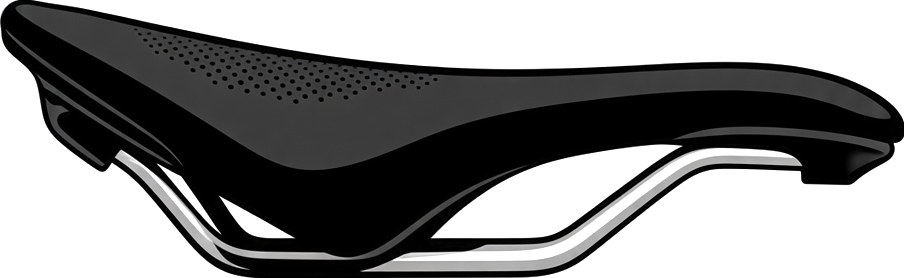
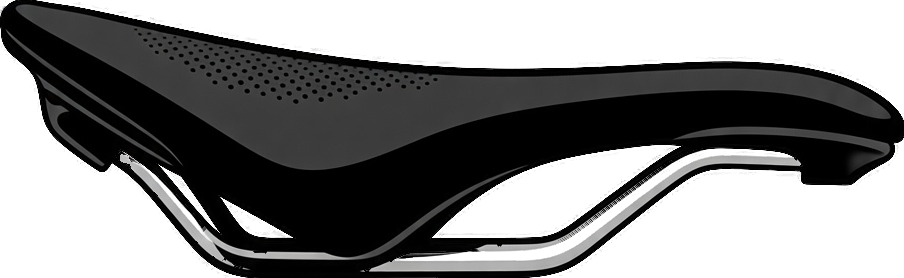
Remove the light knockout fringe from suspension artwork
Edge pixels on the wheel PNGs still carried the pale matte from the black-background cutout, which composite as a white halo on the dark canvas. Those pixels now take the neighbouring solid colour and keep their alpha. The same fringe is cleared on the saddle, stem, and fork images in both themes. SVG drawing is unchanged.

diff --git a/suspension-designer/index.html b/suspension-designer/index.html
@@ -3351,19 +3351,20 @@ if(window.ResizeObserver){
 }
 
 /* Dark theme swaps in the green artwork. CSS variables cover the drawn
-   strokes; the PNGs have to be real recolored files. */
+   strokes; the PNGs have to be real recolored files. The query strings reload
+   PNGs whose black-background fringe was recoloured; the draw path is unchanged. */
 function applyArtTheme(){
   const dark=document.documentElement.getAttribute('data-theme')==='dark';
   const src=name=>(dark?'img/dark/':'img/')+name;
-  FORKART.src=src('fork-lowers.png');
+  FORKART.src=src('fork-lowers.png')+'?v=1';
   SHOCKART.tail.src=src('shock-tail.png');
   SHOCKART.resv.src=src('shock-reservoir.png');
   SHOCKART.spring.src=src('shock-spring.png');
   SHOCKART.body.src=src('shock-body.png');
-  STEMART.src=src('stem.png')+(dark?'?v=3':'');
-  WHEELART.src=src('wheel.png')+(dark?'?v=2':'');
+  STEMART.src=src('stem.png')+(dark?'?v=4':'?v=1');
+  WHEELART.src=src('wheel.png')+(dark?'?v=4':'?v=1');
   JOCKEYART.src=src('jockey-wheel.png');
-  SADDLEART.src=src('saddle.png');
+  SADDLEART.src=src('saddle.png')+'?v=1';
 }
 function setUiTheme(name){
   document.documentElement.setAttribute('data-theme', name);
